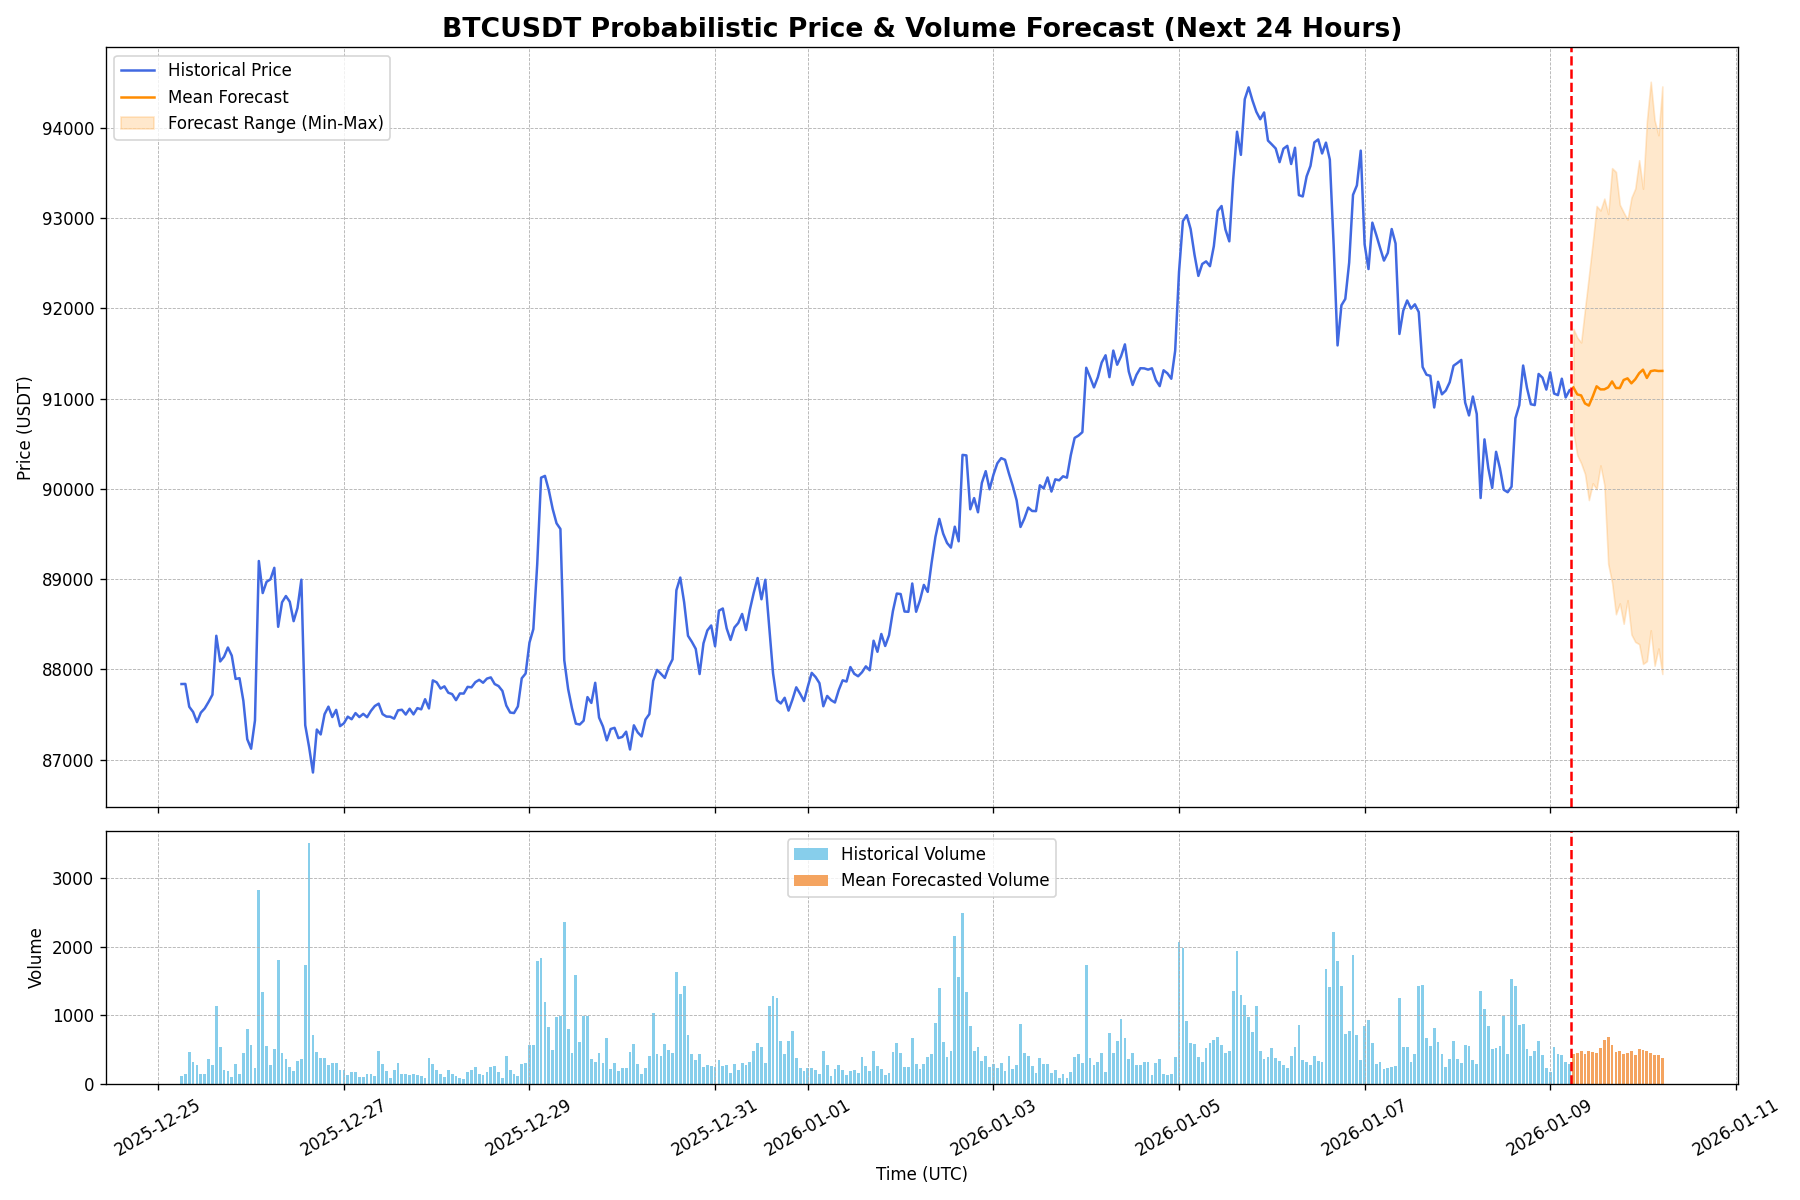
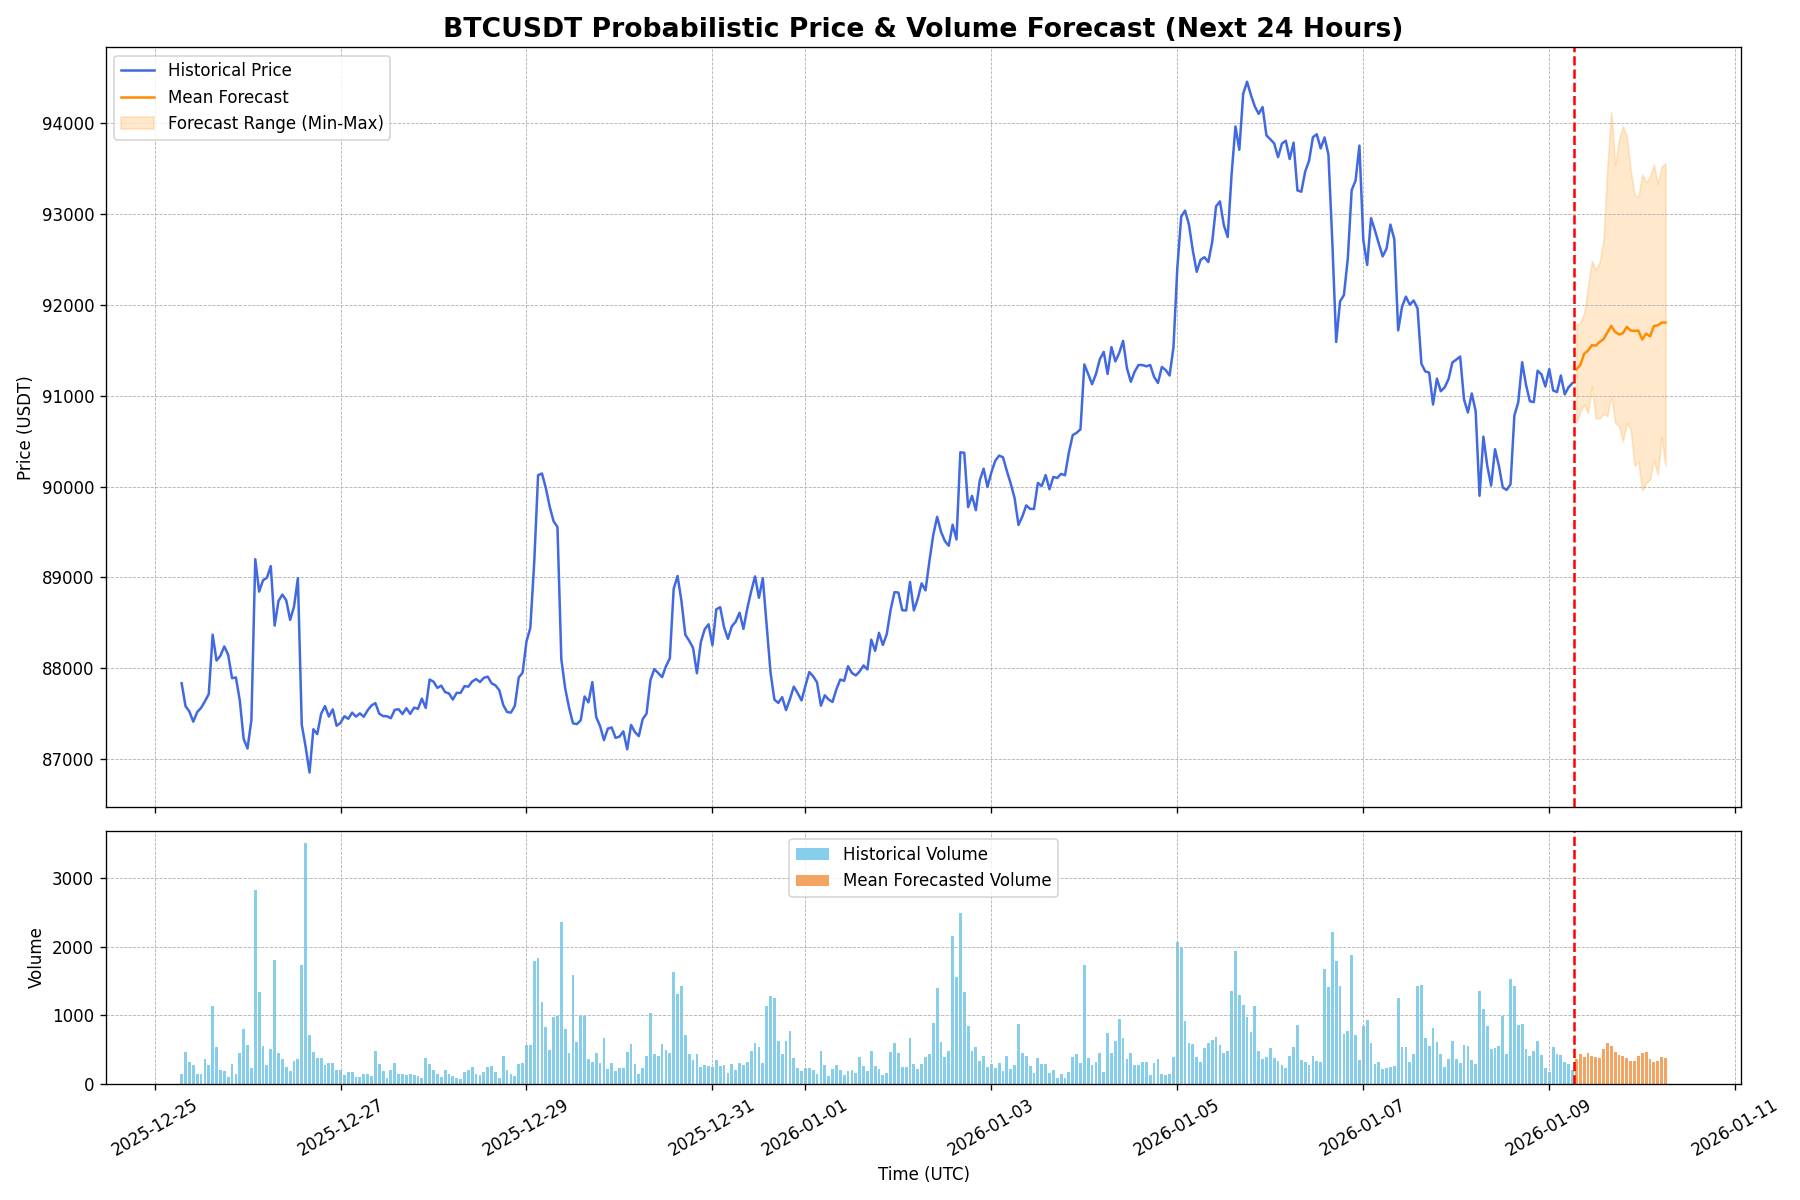
Auto-update forecast for 2026-01-09 07:00 UTC

diff --git a/index.html b/index.html
@@ -22,19 +22,19 @@
         <section id="live-dashboard">
             <h2>Live BTC/USDT Forecast Dashboard</h2>
             <div class="metadata">
-                <span>Last Updated (UTC): <strong id="update-time">2026-01-09 06:00:45</strong></span>
+                <span>Last Updated (UTC): <strong id="update-time">2026-01-09 07:00:43</strong></span>
                 <span>Data Source: Binance | Interval: 1-Hour</span>
             </div>
 
             <div class="metrics-container">
                 <div class="metric-card">
                     <h3>Upside Probability (Next 24h)</h3>
-                    <p class="metric-value" id="upside-prob">63.3%</p>
+                    <p class="metric-value" id="upside-prob">76.7%</p>
                     <div class="metric-desc">The model's confidence that the price in 24 hours will be higher than the last known price.</div>
                 </div>
                 <div class="metric-card">
                     <h3>Volatility Amplification (Next 24h)</h3>
-                    <p class="metric-value" id="vol-amp-prob">66.7%</p>
+                    <p class="metric-value" id="vol-amp-prob">33.3%</p>
                     <div class="metric-desc">The probability that predicted volatility over the next 24h will exceed recent historical volatility.</div>
                 </div>
             </div>
